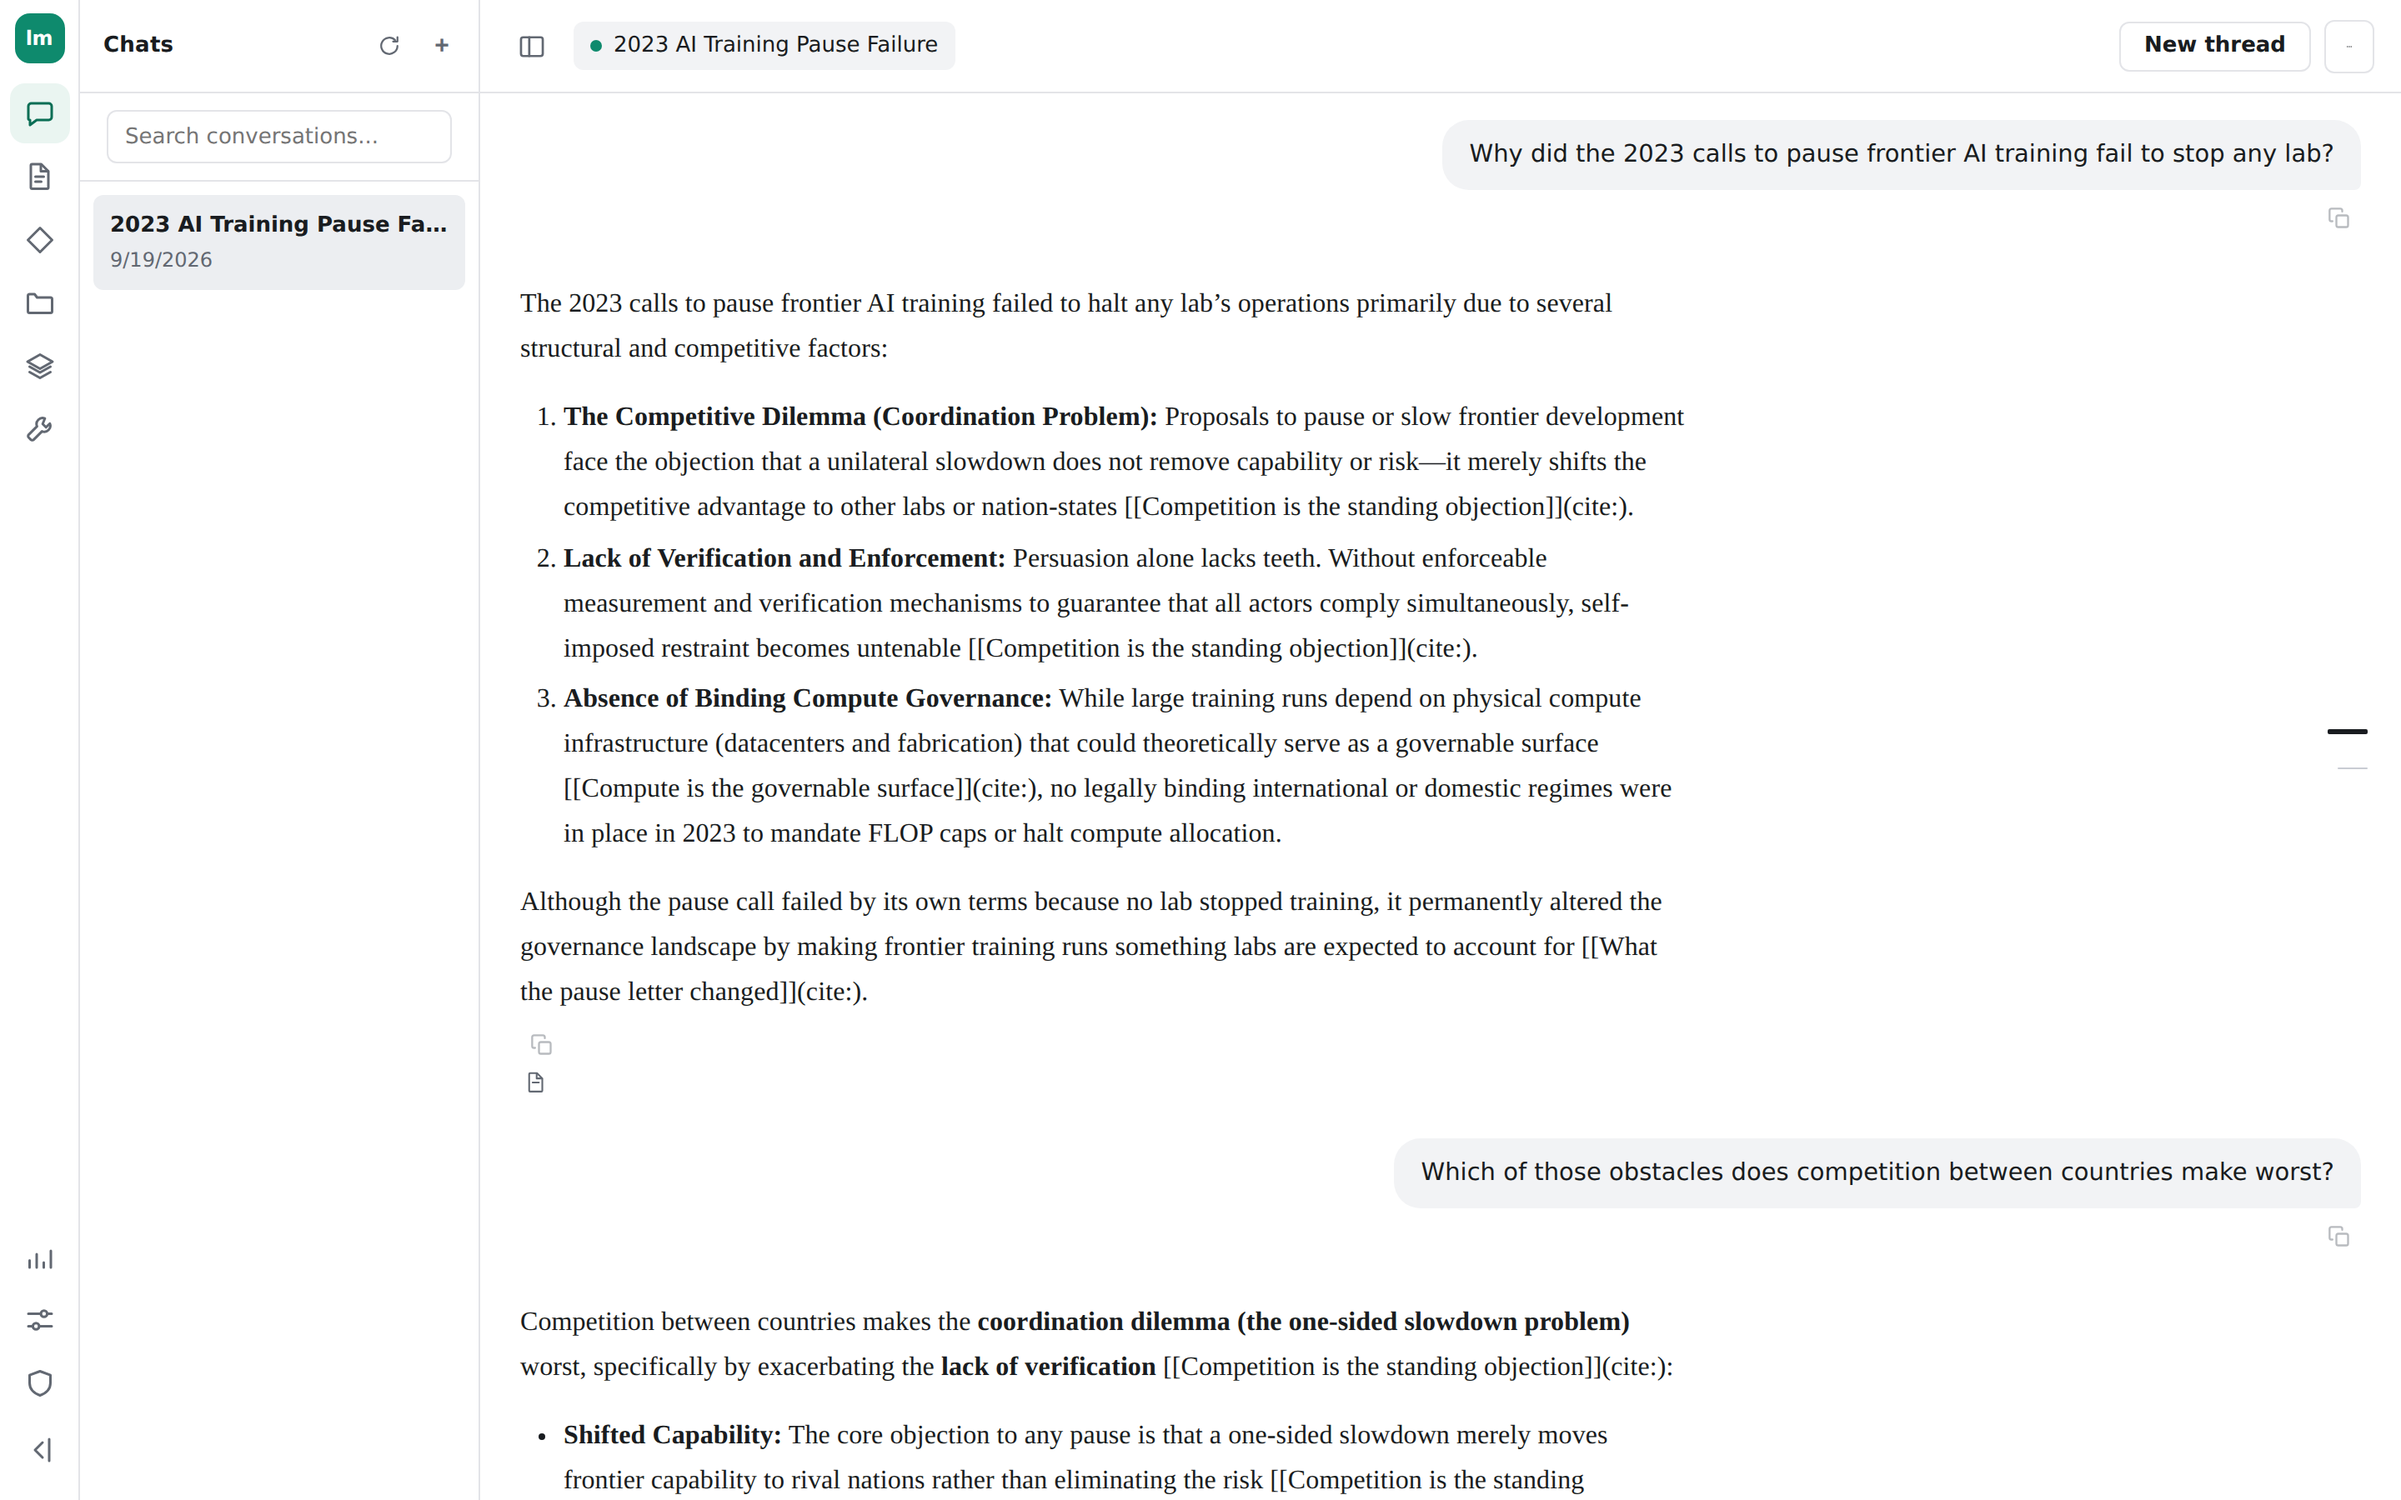
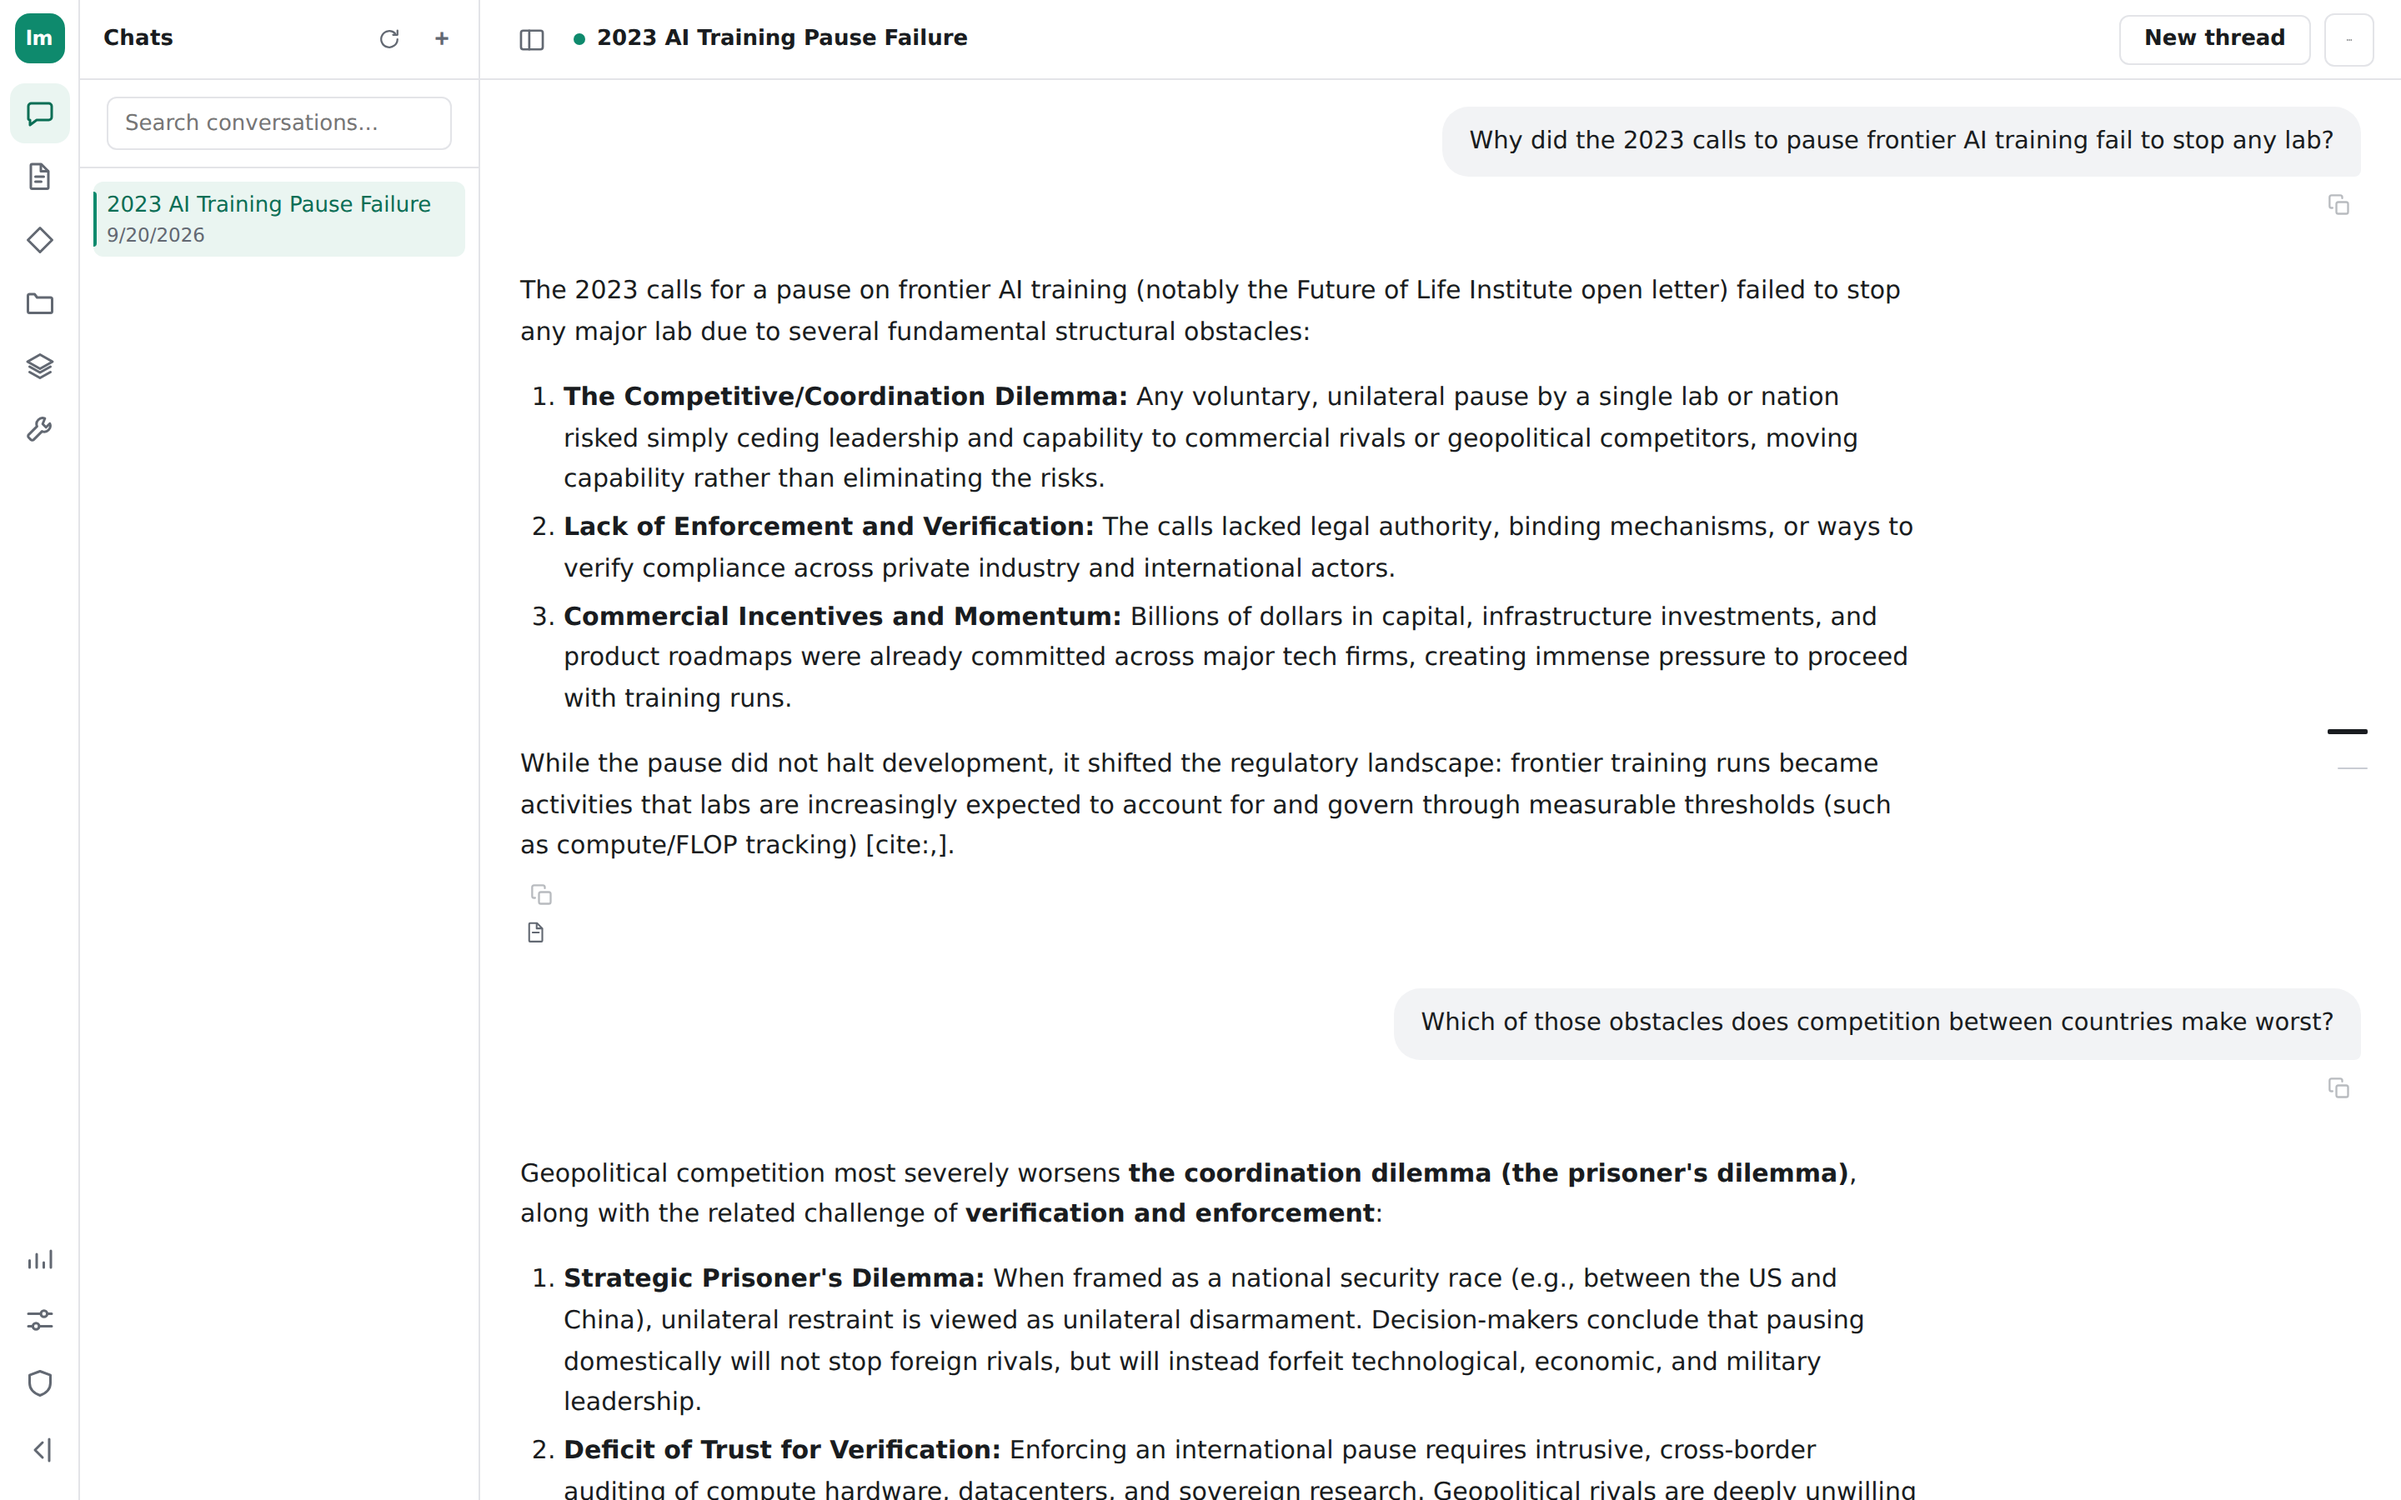
Recapture the screenshots the sweep left owed
#247 said the images wanted one more pass when the sweep finished, and #249
finished it without taking one. `docs/screenshots/` has shown Insights,
Notes, Chat and Settings/Admin as they were before #249 ever since, and
Settings as it was before this branch.

All ten recaptured against a real provider, so the chat screen documents a
real answer rather than the stub backend's one line.

One harness fix, which is why the old images had a tooltip in them: the
pointer stays wherever it last clicked, so a rail button's tooltip sat open
over the workspace in every shot taken after it, and a clicked row kept its
hover actions revealed. The pointer is parked before each shot. Not in the
right gutter, which looked emptier and is not - `.turn-rail` lives at that
edge and opens a 264px card of turn labels on hover, which sat over the
answer in two captures before the cause was found. The rail's own middle,
between its two icon groups, is empty on every screen.

diff --git a/scripts/capture_screenshots.py b/scripts/capture_screenshots.py
@@ -324,6 +324,19 @@ def capture(args: argparse.Namespace, base: str) -> list[pathlib.Path]:
         page = browser.new_page(viewport=VIEWPORT, device_scale_factor=2)
 
         def shot(name: str) -> None:
+            # The pointer stays wherever it last clicked, so a rail button's
+            # tooltip sat open over the workspace in every shot taken after
+            # it, and a clicked row kept its hover actions revealed. A
+            # tooltip nobody is pointing at is the capture's artefact, not
+            # the product's state, so park the pointer somewhere empty
+            # first.
+            #
+            # The rail's own middle, between its two icon groups. The right
+            # gutter looked emptier and was not: `.turn-rail` lives at that
+            # edge and opens a 264px card of turn labels on hover, which
+            # then sat over the answer in two captures.
+            page.mouse.move(24, VIEWPORT["height"] // 2)
+            time.sleep(0.4)
             path = args.out / f"{name}.png"
             page.screenshot(path=str(path))
             shots.append(path)

diff --git a/README.md b/README.md
@@ -74,9 +74,10 @@ feedback has shaped and which adapters it reached.
 ![Insights screen summarizing preference events by total, positive, negative, and neutral.](docs/screenshots/08-insights.png)
 
 **settings.** account and session details, including the role and tenant the
-current session carries.
+current session carries. fourteen sections under a sticky index that marks
+the one being read; five of them appear only for the `admin` role.
 
-![Settings screen showing session information and account preferences.](docs/screenshots/09-settings.png)
+![Settings screen with a sticky section index on the left, listing session, email, password, two-factor, API keys, preferences, local storage, upload limits, about, and five admin sections. The workspace shows session information, email verification, and the change-password form, each under its own titled band.](docs/screenshots/09-settings.png)
 
 **admin console.** a separate page at `/admin`, guarded by the `admin` role.
 it reviews configuration patch proposals, administers tenant users, and
